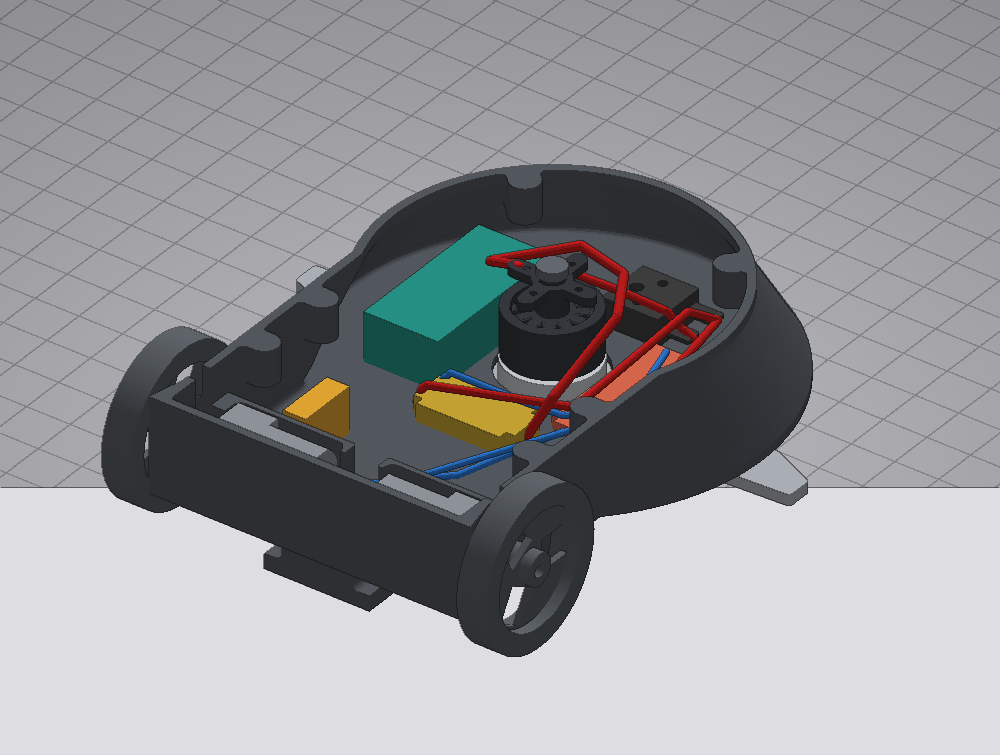
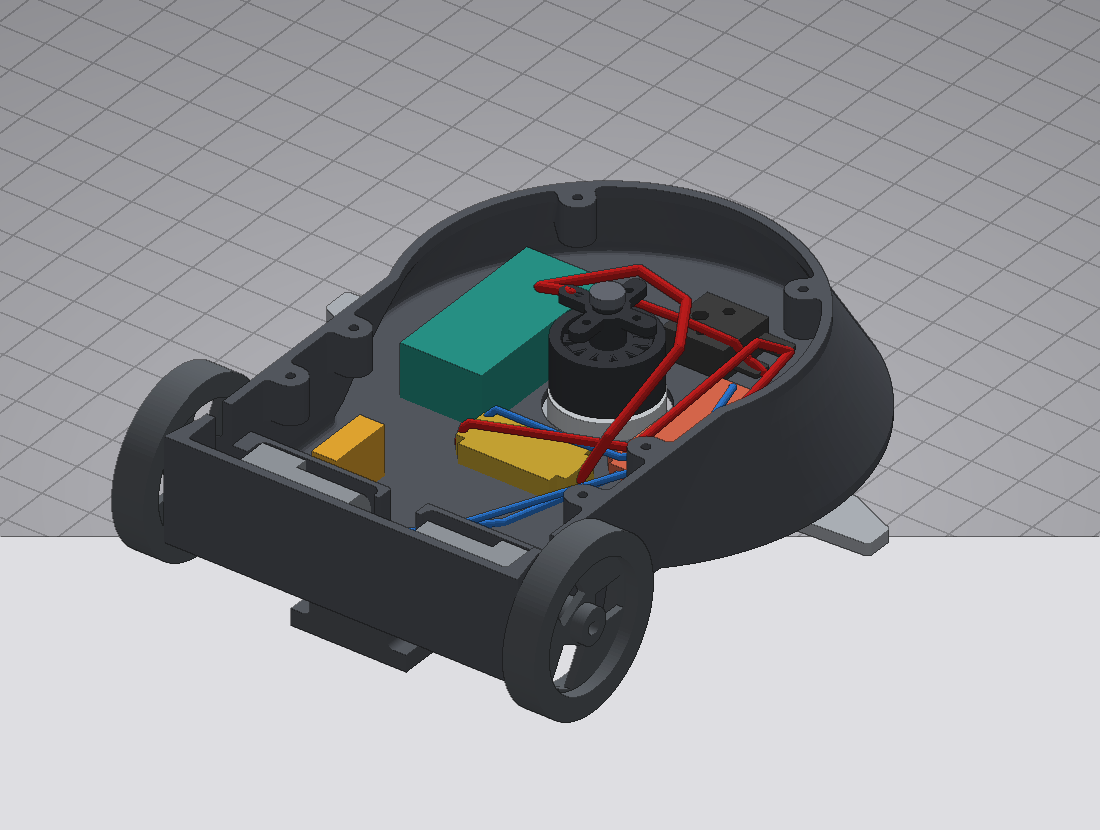
scythe_classic: M2 pilot holes in rim posts and skid-arm riser
Claude-Session: https://claude.ai/code/session_015mpiJhXkEQQhdc1shBHyEu

diff --git a/robots/scythe_classic/src/scythe_classic/skids.py b/robots/scythe_classic/src/scythe_classic/skids.py
@@ -32,6 +32,7 @@ SHAFT_R = P.SHAFT_D / 2
 ARM_W_BODY = 24.0      # mm: width of the stiff part of the strip (the arch.fork_stiffness check bends it sideways: I = t w^3 / 12)
 ARM_NECK_Y = (4.0, 10.0)   # mm from the axis line: where the strip narrows to the puck width (the bar-bolt driver path)
 ARM_SCREWS = ((0.0, -56.0), (0.0, -52.0), (0.0, -48.0))   # mm xy: the four riser screws (M2)
+ARM_SCREW_L = 8.0      # mm M2x8 arm screws (make_spec fasteners)
 RISER_W = 16.0         # mm riser width (two M2 screws 10 mm apart)
 
 
@@ -60,6 +61,10 @@ def foot():
     if edges:
         arm = bd.fillet(edges, r_fil)
     bore = bd.Pos(0, P.WPN_AXIS_Y, z0 - 1) * _z_cyl(BEARING_OD_R, z1 - z0 + 2)
+    top = P.tub_floor_z()
+    depth = ARM_SCREW_L - P.TUB_FLOOR_T + 0.5   # M2x8 through the floor, the rest threads into the riser
+    for sx, sy in ARM_SCREWS:   # M2 thread-forming pilots in the riser
+        bore += bd.Pos(sx, sy, top - depth) * _z_cyl(0.85, depth + 0.1)   # 1.7 pilot, as tub.PILOT_R
     return arm - bore
 
 

diff --git a/robots/scythe_classic/src/scythe_classic/tub.py b/robots/scythe_classic/src/scythe_classic/tub.py
@@ -363,5 +363,20 @@ def arm_holes():
     return out
 
 
+PILOT_R = 0.85      # mm M2 thread-forming pilot in printed nylon (1.7 drill, as Revron TOP_SCREW_WEB)
+RIM_SCREW_L = 6.0   # mm M2x6 rim screw (make_spec fasteners)
+
+
+def rim_pilots():
+    """Pilot holes in the rim posts for the M2x6 top-panel screws: screw length less the panel, plus 0.5 mm tip room."""
+    top = P.TUB_TOP_Z - P.TOP_PANEL_T
+    depth = RIM_SCREW_L - P.TOP_PANEL_T + 0.5
+    out = None
+    for x, y in rim_positions():
+        h = bd.Pos(x, y, top - depth) * bd.Cylinder(PILOT_R, depth + 0.1, align=(bd.Align.CENTER, bd.Align.CENTER, bd.Align.MIN))
+        out = h if out is None else out + h
+    return out
+
+
 def tub():
-    return shell() + weapon_boss() + drive_bays() - bell_bore() - axle_holes() - arm_holes()
+    return shell() + weapon_boss() + drive_bays() - bell_bore() - axle_holes() - arm_holes() - rim_pilots()
